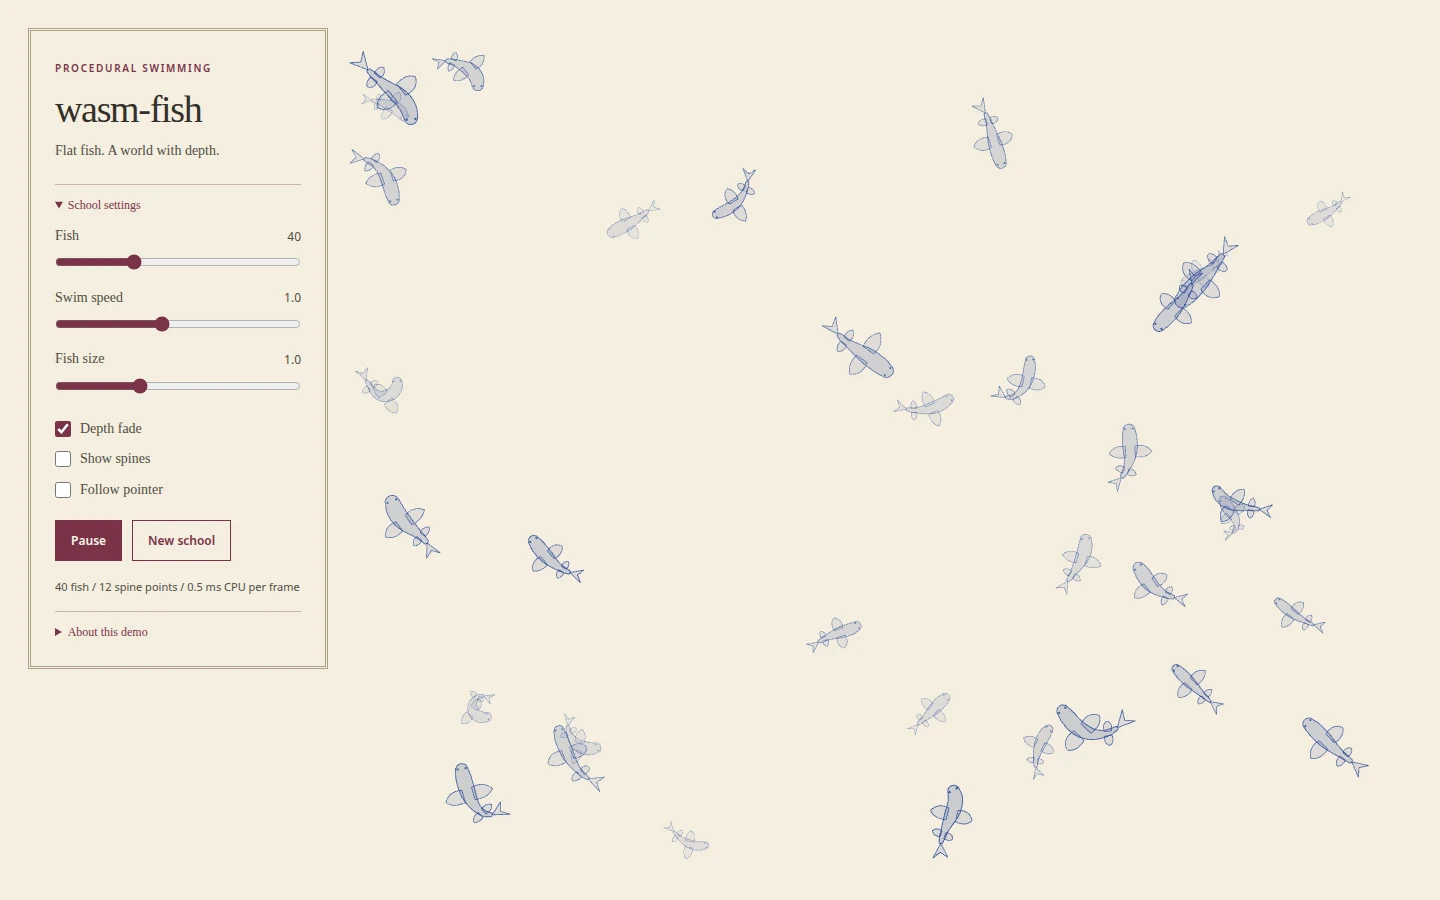
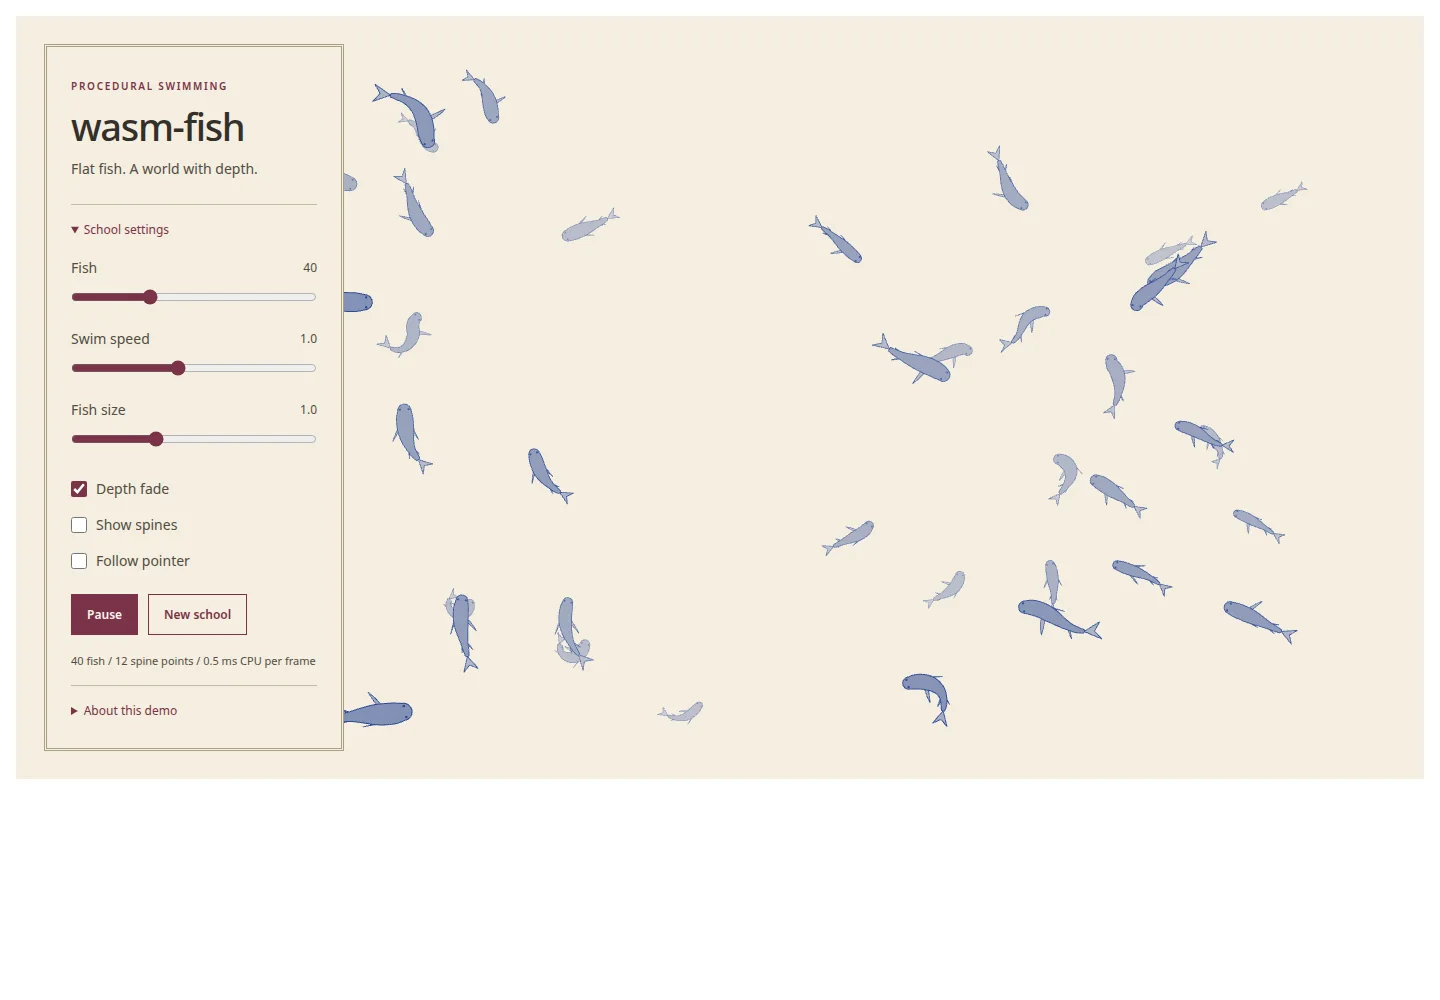
Make fish opaque and steer slender fins through turns

diff --git a/fish.c b/fish.c
@@ -13,6 +13,7 @@ void fish_body_init(FishBody *body, float x, float y, float heading,
   body->length = fmaxf(12, length);
   body->girth = clamp(girth, 0.5f, 1.6f);
   body->phase = phase;
+  body->speed = body->turn = body->pelvic_turn = 0;
   float spacing = body->length / (FISH_JOINTS - 1);
   for (int i = 0; i < FISH_JOINTS; ++i) {
     body->joints[i] = (FishPoint){x - cosf(heading) * spacing * i,
@@ -23,13 +24,24 @@ void fish_body_init(FishBody *body, float x, float y, float heading,
 
 void fish_body_resolve(FishBody *body, float x, float y, float velocity_x,
                        float velocity_y, float dt) {
+  if (!isfinite(dt) || dt <= 0)
+    return;
   float speed = hypotf(velocity_x, velocity_y);
   float heading = body->angles[0];
   if (speed > 0.001f) {
     float desired = atan2f(velocity_y, velocity_x);
     heading += clamp(angle_delta(desired, heading), -3.8f * dt, 3.8f * dt);
   }
-  body->phase = fmodf(body->phase + dt * (5.5f + speed * 3), 6.283185307f);
+  /* Curvature in body lengths: length / turn radius, with a low-speed guard.
+     A signed signal distinguishes the inside and outside of the turn. */
+  float angular_speed = angle_delta(heading, body->angles[0]) / dt;
+  float target_turn = clamp(
+      angular_speed * body->length / fmaxf(speed, body->length * .35f), -1, 1);
+  body->speed = speed;
+  body->turn += (target_turn - body->turn) * (1 - expf(-dt / .12f));
+  body->pelvic_turn +=
+      (body->turn - body->pelvic_turn) * (1 - expf(-dt / .28f));
+  body->phase = fmodf(body->phase + dt * (5.5f + speed * .05f), 6.283185307f);
   body->joints[0] = (FishPoint){x, y};
   body->angles[0] = heading;
   float spacing = body->length / (FISH_JOINTS - 1);
@@ -55,4 +67,56 @@ float fish_body_radius(const FishBody *body, int joint) {
   if (joint < 0 || joint >= FISH_BODY_JOINTS)
     return 0;
   return body->length * 0.115f * body->girth * widths[joint] / 84;
+}
+
+static FishPoint plus(FishPoint a, FishPoint b) {
+  return (FishPoint){a.x + b.x, a.y + b.y};
+}
+
+static FishPoint times(FishPoint p, float scale) {
+  return (FishPoint){p.x * scale, p.y * scale};
+}
+
+static FishPoint quadratic(FishPoint a, FishPoint control, FishPoint b,
+                           float t) {
+  float u = 1 - t;
+  return plus(plus(times(a, u * u), times(control, 2 * u * t)),
+              times(b, t * t));
+}
+
+int fish_fin_shape(const FishBody *body, int joint, int side, FishFin *fin) {
+  if (!body || !fin || joint < 0 || joint >= FISH_BODY_JOINTS ||
+      (side != -1 && side != 1))
+    return 0;
+  int pectoral = joint < 5;
+  float turn = pectoral ? body->turn : body->pelvic_turn * .55f;
+  float inside = side * turn;
+  float glide = clamp(body->speed / (body->length * 1.4f), 0, 1);
+  float spread = (pectoral ? .48f : .36f) + .65f * inside + .15f * fabsf(turn);
+  spread -= .10f * glide * (1 - fabsf(turn));
+  spread += .025f * sinf(body->phase + side * 1.2f) * (1 - .65f * fabsf(turn));
+  spread = clamp(spread, .12f, 1.35f);
+
+  FishPoint forward = {cosf(body->angles[joint]), sinf(body->angles[joint])};
+  FishPoint outward = times((FishPoint){-forward.y, forward.x}, (float)side);
+  FishPoint axis =
+      plus(times(forward, -cosf(spread)), times(outward, sinf(spread)));
+  float length = body->length * (pectoral ? .22f : .12f);
+  float chord = length * (pectoral ? .24f : .26f);
+  fin->attachment = plus(body->joints[joint],
+                         times(outward, fish_body_radius(body, joint) * .8f));
+  fin->tip = plus(fin->attachment, times(axis, length));
+  FishPoint front = plus(fin->attachment, times(forward, chord * .5f));
+  FishPoint back = plus(fin->attachment, times(forward, -chord * .5f));
+  FishPoint control_a = plus(plus(fin->attachment, times(axis, length * .55f)),
+                             times(forward, chord * .65f));
+  FishPoint control_b = plus(plus(fin->attachment, times(axis, length * .58f)),
+                             times(forward, -chord * .35f));
+  fin->outline[0] = front;
+  for (int i = 1; i <= 8; ++i) {
+    float t = i / 8.0f;
+    fin->outline[i] = quadratic(front, control_a, fin->tip, t);
+    fin->outline[8 + i] = quadratic(fin->tip, control_b, back, t);
+  }
+  return 1;
 }

diff --git a/tests/test_school.c b/tests/test_school.c
@@ -14,6 +14,7 @@ static void constraints(const School *s) {
     assert(p->position.z >= 0 && p->position.z <= SCHOOL_DEPTH);
     assert(fabsf(b->joints[0].x - p->position.x) < .001f);
     assert(fabsf(b->joints[0].y - p->position.y) < .001f);
+    assert(isfinite(b->turn) && isfinite(b->pelvic_turn) && isfinite(b->speed));
     for (int j = 1; j < FISH_JOINTS; ++j) {
       float distance = hypotf(b->joints[j].x - b->joints[j - 1].x,
                               b->joints[j].y - b->joints[j - 1].y);
@@ -24,7 +25,73 @@ static void constraints(const School *s) {
   }
 }
 
+static FishBody swim_arc(float angular_speed) {
+  FishBody body;
+  fish_body_init(&body, 0, 0, 0, 70, 1, 0);
+  float x = 0, y = 0, heading = 0;
+  for (int i = 0; i < 180; ++i) {
+    heading += angular_speed * SCHOOL_STEP;
+    float vx = cosf(heading) * 90, vy = sinf(heading) * 90;
+    x += vx * SCHOOL_STEP;
+    y += vy * SCHOOL_STEP;
+    fish_body_resolve(&body, x, y, vx, vy, SCHOOL_STEP);
+  }
+  return body;
+}
+
+/* Read the visible fin direction relative to the local tailward body axis. */
+static float fin_spread(const FishBody *body, int joint, int side) {
+  FishFin fin;
+  assert(fish_fin_shape(body, joint, side, &fin));
+  float dx = fin.tip.x - fin.attachment.x, dy = fin.tip.y - fin.attachment.y;
+  float c = cosf(body->angles[joint]), s = sinf(body->angles[joint]);
+  return atan2f(side * (-s * dx + c * dy), -(c * dx + s * dy));
+}
+
+static void fin_motion(void) {
+  FishBody straight = swim_arc(0), right = swim_arc(.9f), left = swim_arc(-.9f);
+  FishBody wide = swim_arc(.15f);
+  assert(fabsf(fin_spread(&straight, 3, 1) - fin_spread(&straight, 3, -1)) <
+         .06f);
+  assert(fin_spread(&right, 3, 1) > fin_spread(&right, 3, -1) + .3f);
+  assert(fin_spread(&left, 3, -1) > fin_spread(&left, 3, 1) + .3f);
+  float tight_difference = fin_spread(&right, 3, 1) - fin_spread(&right, 3, -1);
+  float wide_difference = fin_spread(&wide, 3, 1) - fin_spread(&wide, 3, -1);
+  assert(tight_difference > wide_difference + .2f);
+
+  for (int side = -1; side <= 1; side += 2) {
+    FishFin fin;
+    assert(fish_fin_shape(&right, 3, side, &fin));
+    float dx = fin.tip.x - fin.attachment.x, dy = fin.tip.y - fin.attachment.y;
+    float span = hypotf(dx, dy), lo = 1e9f, hi = -1e9f;
+    for (int i = 0; i < FISH_FIN_POINTS; ++i) {
+      float cross = ((fin.outline[i].x - fin.attachment.x) * -dy +
+                     (fin.outline[i].y - fin.attachment.y) * dx) /
+                    span;
+      lo = fminf(lo, cross);
+      hi = fmaxf(hi, cross);
+    }
+    assert((hi - lo) / span <
+           .35f); /* A slender blade, even in a tight turn. */
+  }
+
+  FishBody transient;
+  fish_body_init(&transient, 0, 0, 0, 70, 1, 0);
+  fish_body_resolve(&transient, 1.5f, .05f, cosf(.04f) * 90, sinf(.04f) * 90,
+                    SCHOOL_STEP);
+  assert(transient.turn > 0 && transient.turn < .2f);
+  assert(transient.pelvic_turn > 0 && transient.pelvic_turn < transient.turn);
+  float heading = transient.angles[0];
+  for (int i = 0; i < 180; ++i)
+    fish_body_resolve(&transient, 1.5f, .05f, cosf(heading) * 90,
+                      sinf(heading) * 90, SCHOOL_STEP);
+  assert(fabsf(transient.turn) < .001f && fabsf(transient.pelvic_turn) < .001f);
+  fish_body_resolve(&transient, 1.5f, .05f, 0, 0, SCHOOL_STEP);
+  assert(isfinite(fin_spread(&transient, 3, 1)));
+}
+
 int main(void) {
+  fin_motion();
   School *a = school_create(1440, 900, 40, 42),
          *b = school_create(1440, 900, 40, 42);
   assert(a && b);
@@ -90,6 +157,7 @@ int main(void) {
   school_destroy(a);
   school_destroy(b);
   puts("passed: frame-rate independence, pause, depth order, constraints, "
-       "count limits, resize, obstacle steering, reset");
+       "count limits, resize, obstacle steering, reset, turn-driven slender "
+       "fins");
   return 0;
 }

diff --git a/main_wasm.c b/main_wasm.c
@@ -83,40 +83,31 @@ static void polygon(FishPoint *p, int count, Color fill, Color stroke,
 
 static void draw_fin(const FishBody *b, int joint, int side, float scale,
                      Color fill, Color stroke) {
-  FishPoint head = b->joints[0], base = b->joints[joint];
-  FishPoint f = direction(b->angles[joint]);
-  FishPoint n = mul((FishPoint){-f.y, f.x}, (float)side);
-  float r = fish_body_radius(b, joint),
-        length = b->length * (joint == 3 ? .22f : .12f);
-  float flap = 1 + .10f * sinf(b->phase + side * .7f);
-  FishPoint a = add(base, mul(n, r * .65f));
-  FishPoint tip =
-      add(add(base, mul(n, r + length * flap)), mul(f, -length * .45f));
-  FishPoint back = add(a, mul(f, -length * .8f));
-  FishPoint control_a = add(add(a, mul(n, length * .8f)), mul(f, length * .2f));
-  FishPoint control_b =
-      add(add(back, mul(n, length * .8f)), mul(f, -length * .15f));
-  FishPoint p[17];
-  p[0] = a;
-  for (int i = 1; i <= 8; ++i) {
-    float t = i / 8.0f, u = 1 - t;
-    p[i] = add(add(mul(a, u * u), mul(control_a, 2 * u * t)), mul(tip, t * t));
-    p[8 + i] =
-        add(add(mul(tip, u * u), mul(control_b, 2 * u * t)), mul(back, t * t));
-  }
-  for (int i = 0; i < 17; ++i)
-    p[i] = transform(p[i], head, scale);
-  polygon(p, 17, fill, stroke, .75f * scale);
+  FishFin fin;
+  if (!fish_fin_shape(b, joint, side, &fin))
+    return;
+  for (int i = 0; i < FISH_FIN_POINTS; ++i)
+    fin.outline[i] = transform(fin.outline[i], b->joints[0], scale);
+  polygon(fin.outline, FISH_FIN_POINTS, fill, stroke, .65f * scale);
+}
+
+/* Depth changes pigment color, not body opacity. Near bodies hide farther fish.
+ */
+static Color pigment(float amount, float alpha) {
+  return (Color){.957f + (.114f - .957f) * amount,
+                 .933f + (.239f - .933f) * amount,
+                 .878f + (.561f - .878f) * amount, alpha};
 }
 
 static void draw_fish(int index) {
   const FishBody *b = &school->bodies[index];
   float z = school->particles[index].position.z / SCHOOL_DEPTH;
   float scale = school->scale * (depth_enabled ? 1.2f - z * .65f : 1);
-  float alpha = depth_enabled ? 1 - z * .65f : 1;
-  Color stroke = {.114f, .239f, .561f, .88f * alpha};
-  Color fill = {.114f, .239f, .561f, .22f * alpha};
-  Color fin_fill = {.114f, .239f, .561f, .13f * alpha};
+  float distance = depth_enabled ? z : 0;
+  float body_ink = .58f - .38f * distance;
+  Color stroke = pigment(1 - .55f * distance, 1);
+  Color fill = pigment(body_ink, 1);
+  Color fin_fill = pigment(body_ink * .72f, .96f);
   FishPoint head = b->joints[0];
   draw_fin(b, 3, -1, scale, fin_fill, stroke);
   draw_fin(b, 3, 1, scale, fin_fill, stroke);

diff --git a/fish.h b/fish.h
@@ -4,6 +4,7 @@
 #define FISH_JOINTS 12
 #define FISH_BODY_JOINTS 10
 #define FISH_MAX_BEND 0.3926990817f
+#define FISH_FIN_POINTS 17
 
 typedef struct {
   float x, y;
@@ -12,12 +13,22 @@ typedef struct {
   FishPoint joints[FISH_JOINTS];
   float angles[FISH_JOINTS];
   float length, girth, phase;
+  float speed, turn, pelvic_turn;
 } FishBody;
+
+typedef struct {
+  FishPoint outline[FISH_FIN_POINTS];
+  FishPoint attachment, tip;
+} FishFin;
 
 /* Based on Argonaut's angle-constrained chain. See THIRD_PARTY_NOTICES.md. */
 void fish_body_init(FishBody *body, float x, float y, float heading,
                     float length, float girth, float phase);
+/* Resolver velocities use CSS pixels per second. */
 void fish_body_resolve(FishBody *body, float x, float y, float velocity_x,
                        float velocity_y, float dt);
 float fish_body_radius(const FishBody *body, int joint);
+/* Positive turns are clockwise on screen.
+   side +1 is the fish's right fin; -1 is its left fin. */
+int fish_fin_shape(const FishBody *body, int joint, int side, FishFin *fin);
 #endif

diff --git a/school.c b/school.c
@@ -204,7 +204,8 @@ static void step(School *s) {
       p->velocity.z *= -1;
     }
     fish_body_resolve(&s->bodies[i], p->position.x, p->position.y,
-                      p->velocity.x, p->velocity.y, SCHOOL_STEP);
+                      p->velocity.x / SCHOOL_STEP, p->velocity.y / SCHOOL_STEP,
+                      SCHOOL_STEP);
   }
 }
 

diff --git a/README.md b/README.md
@@ -31,7 +31,7 @@ Unzip it and serve its `web` directory with a local HTTP server.
 - Fish count: 1 to 128. The defaults are 40 on desktop and 16 on mobile.
 - Swim speed: changes simulation time, including body motion.
 - Fish size: changes the rendered size and obstacle clearance.
-- Depth fade: changes size and opacity with the fish's Z position.
+- Depth fade: changes size and color with the fish's Z position.
 - Show spines: shows the 12 constrained points and links.
 - Follow pointer: guides the school toward the pointer.
 - Pause and New school: pause movement or generate another seeded school.
@@ -52,8 +52,23 @@ The last two guide the tail.
 The renderer builds a smooth outline, fins, eyes, and a forked tail from those points.
 It draws the shapes in one batched WebGL 2 triangle call.
 The canvas background is transparent.
-Depth changes size, opacity, and draw order, as it does in the original flock.
+Depth changes size, color, and draw order.
+The bodies are opaque, so a near fish covers a fish behind it.
 This is not a perspective camera or a solid 3D fish mesh.
+
+The fins are thin, swept blades.
+Their angles use head turn rate, swim speed, and body length.
+The front pectoral fin on the inside of a turn opens out.
+The outside fin folds back toward the body.
+A smaller turn radius causes a larger difference between the two fins.
+The rear pelvic fins make smaller movements after a short delay.
+Both pairs return smoothly toward their straight swimming pose.
+All fin motion and geometry run in C/WASM.
+
+This is a simple motion model, with inspiration from studies of
+[pectoral fins during turns](https://bpb-us-e1.wpmucdn.com/sites.harvard.edu/dist/6/58/files/2022/03/Lauder.et_.al_.BB_.2006.pdf)
+and [pelvic fins during maneuvers](https://pubmed.ncbi.nlm.nih.gov/18775930/).
+It does not model the water forces on the fins.
 
 The simulation runs at a fixed 60 steps per second.
 Each step reads a shared snapshot of the school.
@@ -74,6 +89,8 @@ node scripts/check-demo.mjs http://127.0.0.1:8090/ 390 844 reduce
 
 Native checks exercise joint distances, bend limits, frame-rate independence,
 pause, depth order, count limits, resize, reset, and obstacle steering.
+Fin checks exercise left and right turns, turn radius, blade width,
+delayed movement, and the return to straight swimming.
 Browser checks need Node.js 22+ and Google Chrome.
 They exercise the compiled WASM through the demo controls.
 Captures are written to `build/`.
@@ -111,7 +128,7 @@ They are not a hard collision solver.
 
 ## Source layout
 
-- `fish.c`: body chain and width profile.
+- `fish.c`: body chain, width profile, and turn-driven fins.
 - `school.c`: fixed-step school state, boundaries, and rectangle avoidance.
 - `particle.c`, `vector3d.c`, `spatial_grid.c`: flock core.
 - `main_wasm.c`: WebGL renderer and exported browser controls.
